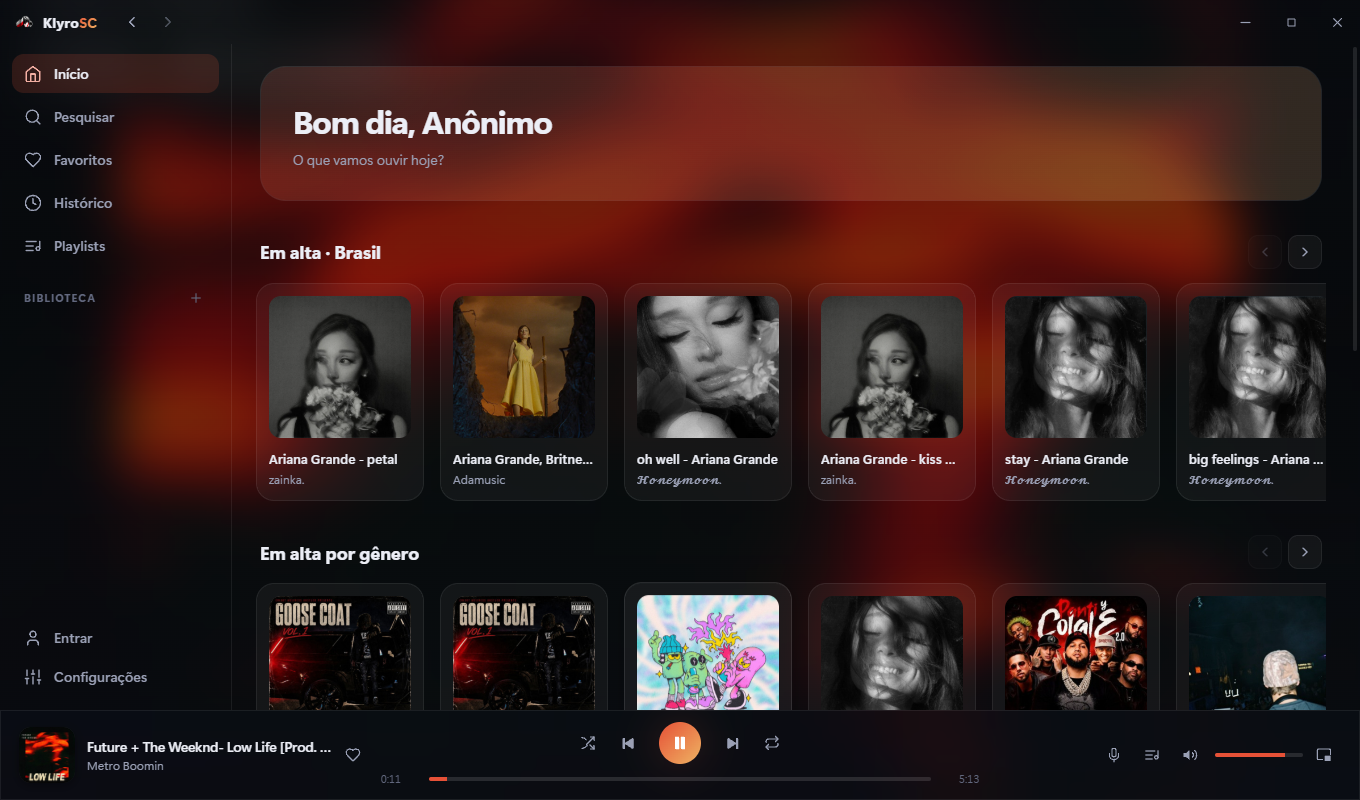
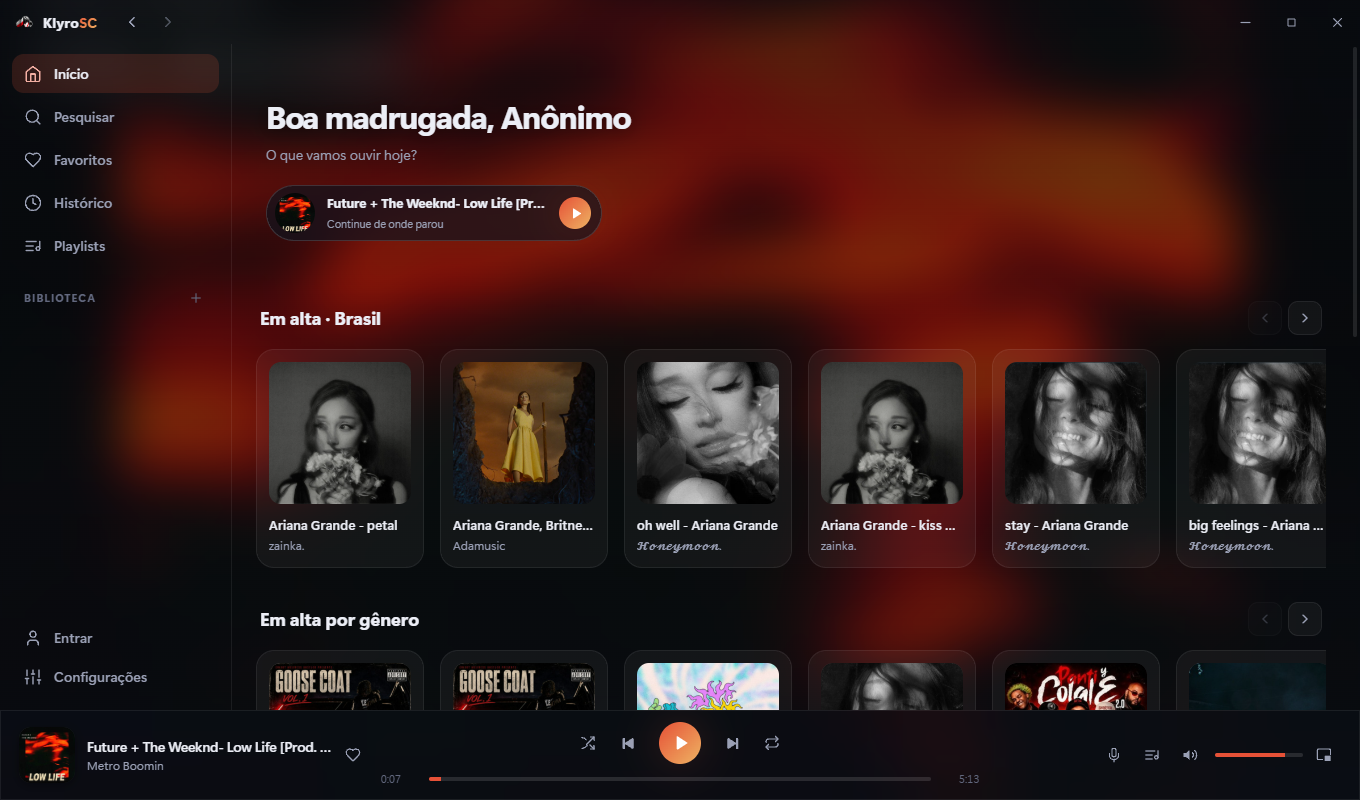
v2.5.1: hero sem caixa (so o background), saudacao Boa madrugada 0-5h, bordas da miniatura do tema Capa corrigidas, prints do README atualizados

diff --git a/src/renderer/src/styles/pages.css b/src/renderer/src/styles/pages.css
@@ -1,11 +1,7 @@
 .home-hero {
   margin-bottom: 34px;
-  padding: 30px 32px;
-  border-radius: var(--radius-xl);
+  padding: 26px 6px;
   position: relative;
-  overflow: hidden;
-  background: var(--surface);
-  border: 1px solid var(--stroke);
   display: flex;
   align-items: stretch;
   gap: 30px;
@@ -119,20 +115,12 @@
   }
 }
 
-.home-hero::before {
-  content: '';
-  position: absolute;
-  inset: 0;
-  background: var(--accent-gradient);
-  opacity: 0.14;
-  pointer-events: none;
-}
-
 .home-hero .hh-main h1 {
   font-size: 2rem;
   font-weight: 800;
   letter-spacing: -0.03em;
   position: relative;
+  text-shadow: 0 2px 18px rgba(0, 0, 0, 0.45);
 }
 
 .home-hero .hh-main p {
@@ -1081,14 +1069,19 @@ kbd {
   border: 1px solid rgba(255, 255, 255, 0.06);
 }
 
+.tc-canvas.blurred {
+  background: #0b0c12;
+}
+
 .tc-canvas.blurred::before {
   content: '';
   position: absolute;
-  inset: -20px;
-  background: inherit;
+  inset: -30%;
+  background-image: var(--tcbg, none);
   background-size: cover;
   background-position: center;
-  filter: blur(11px) saturate(1.15);
+  filter: blur(10px) saturate(1.15) brightness(0.95);
+  transform: scale(1.12);
 }
 
 .tc-veil {

diff --git a/src/renderer/src/components/ChangelogCard.tsx b/src/renderer/src/components/ChangelogCard.tsx
@@ -11,6 +11,19 @@ interface ChangelogEntry {
 
 export const CHANGELOG: ChangelogEntry[] = [
   {
+    version: '2.5.1',
+    pt: [
+      'Início mais limpa: a saudação agora fica direto sobre o fundo, sem caixa',
+      '“Boa madrugada” entre meia-noite e 5h — chega de “bom dia” às 3 da manhã',
+      'Bordas da miniatura do tema “Capa da música” corrigidas no seletor de temas'
+    ],
+    en: [
+      'Cleaner Home: the greeting now sits directly on the background, no box',
+      '“Up late” greeting between midnight and 5am — no more “good morning” at 3am',
+      'Fixed the blurred edges of the “Album art” theme preview in the theme picker'
+    ]
+  },
+  {
     version: '2.5.0',
     pt: [
       'Novo tema padrão “Capa da música”: o fundo e as cores do app seguem ao vivo a capa do que está tocando (troque nas Configurações se preferir)',

diff --git a/src/renderer/src/pages/SettingsPage.tsx b/src/renderer/src/pages/SettingsPage.tsx
@@ -61,7 +61,7 @@ function ThemePicker(): JSX.Element {
   const canvasStyle = (id: AccentId): CSSProperties => {
     if (id === 'art') {
       return artwork
-        ? { backgroundImage: `url("${artwork}")` }
+        ? ({ '--tcbg': `url("${artwork}")` } as CSSProperties)
         : { background: 'linear-gradient(135deg, #241543, #0b2436 70%, #0a1a2c)' }
     }
     if (id === 'yagami') return { backgroundImage: `url(${yagamiBg})`, backgroundPosition: 'center 30%' }

diff --git a/src/renderer/src/pages/HomePage.tsx b/src/renderer/src/pages/HomePage.tsx
@@ -16,6 +16,7 @@ import { Icon } from '@renderer/components/Icon'
 
 function greeting(): string {
   const hour = new Date().getHours()
+  if (hour < 5) return t('home.greetingLateNight')
   if (hour < 12) return t('home.greetingMorning')
   if (hour < 18) return t('home.greetingAfternoon')
   return t('home.greetingEvening')

diff --git a/src/renderer/src/i18n/locales/en.ts b/src/renderer/src/i18n/locales/en.ts
@@ -47,6 +47,7 @@ export const en = {
     greetingMorning: 'Good morning',
     greetingAfternoon: 'Good afternoon',
     greetingEvening: 'Good evening',
+    greetingLateNight: 'Up late',
     anonymous: 'Anonymous',
     tagline: 'What are we listening to today?',
     continueListening: 'Pick up where you left off',

diff --git a/src/renderer/src/i18n/locales/pt.ts b/src/renderer/src/i18n/locales/pt.ts
@@ -49,6 +49,7 @@ export const pt: Dict = {
     greetingMorning: 'Bom dia',
     greetingAfternoon: 'Boa tarde',
     greetingEvening: 'Boa noite',
+    greetingLateNight: 'Boa madrugada',
     anonymous: 'Anônimo',
     tagline: 'O que vamos ouvir hoje?',
     continueListening: 'Continue de onde parou',
